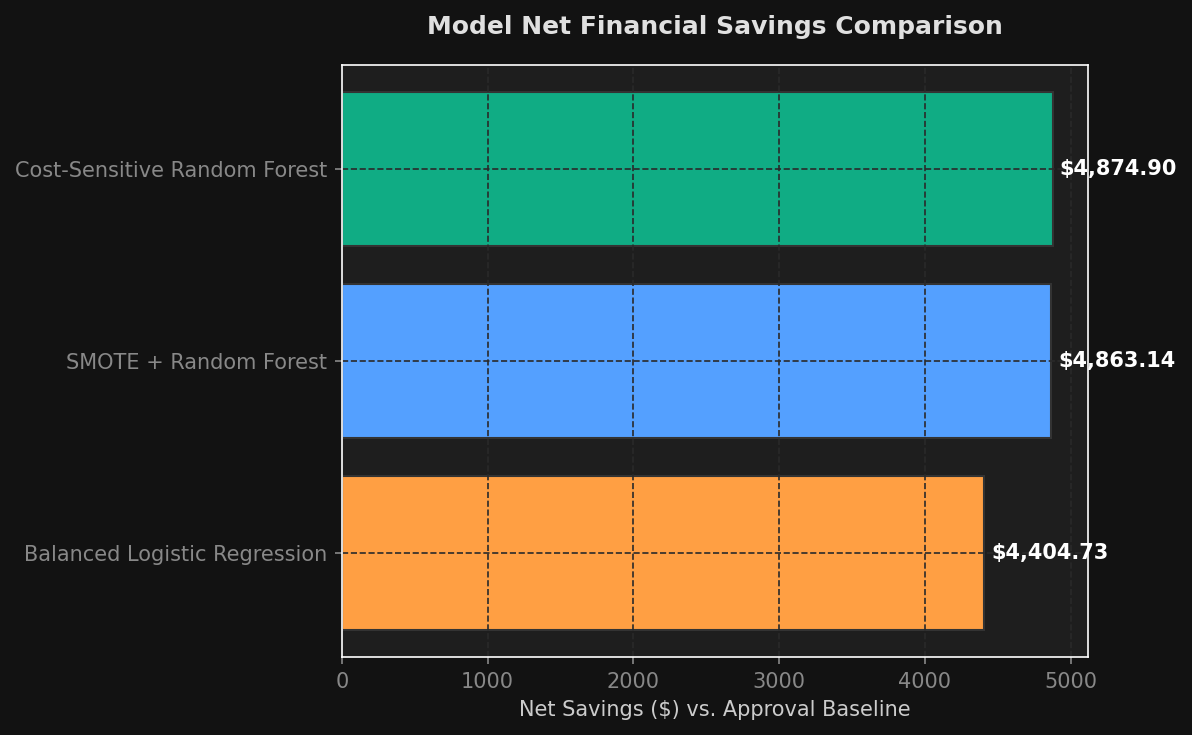
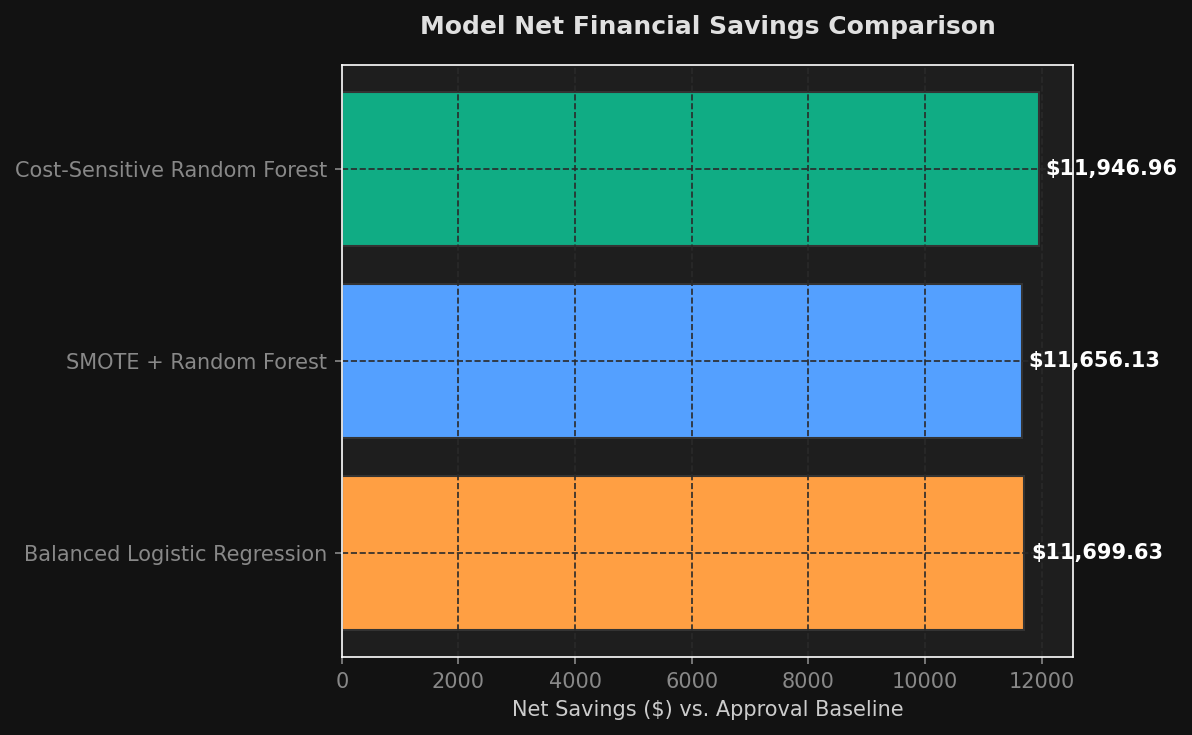
feat: utilize full 284k dataset for real data pipeline

diff --git a/main.py b/main.py
@@ -22,11 +22,9 @@ def run_project3(num_samples=10000, fraud_rate=0.005, seed=42, use_real_data=Fal
         print("Loading real Credit Card Fraud dataset...")
         df = load_real_fraud_data()
         
-        # Sort by timestamp and subsample to keep runtime reasonable
+        # Sort by timestamp
         df = df.sort_values("timestamp").reset_index(drop=True)
-        subsample_size = min(50000, len(df))
-        df = df.iloc[:subsample_size].reset_index(drop=True)
-        print(f"Subsampled to {subsample_size} rows (sorted by timestamp).")
+        print("Using the full dataset.")
     else:
         # --- Synthetic data path ---
         print("Generating highly imbalanced synthetic fraud transaction dataset...")

diff --git a/README.md b/README.md
@@ -97,4 +97,4 @@ python main.py --samples 10000
 python main.py --real-data
 ```
 
-The real dataset contains 284,807 transactions with 28 PCA-transformed features (V1-V28), plus Time and Amount. When `--real-data` is used, a 50,000-row subsample (sorted by time) is used for reasonable runtime.
+The real dataset contains 284,807 transactions with 28 PCA-transformed features (V1-V28), plus Time and Amount. When `--real-data` is used, the full dataset is processed (sorted chronologically).